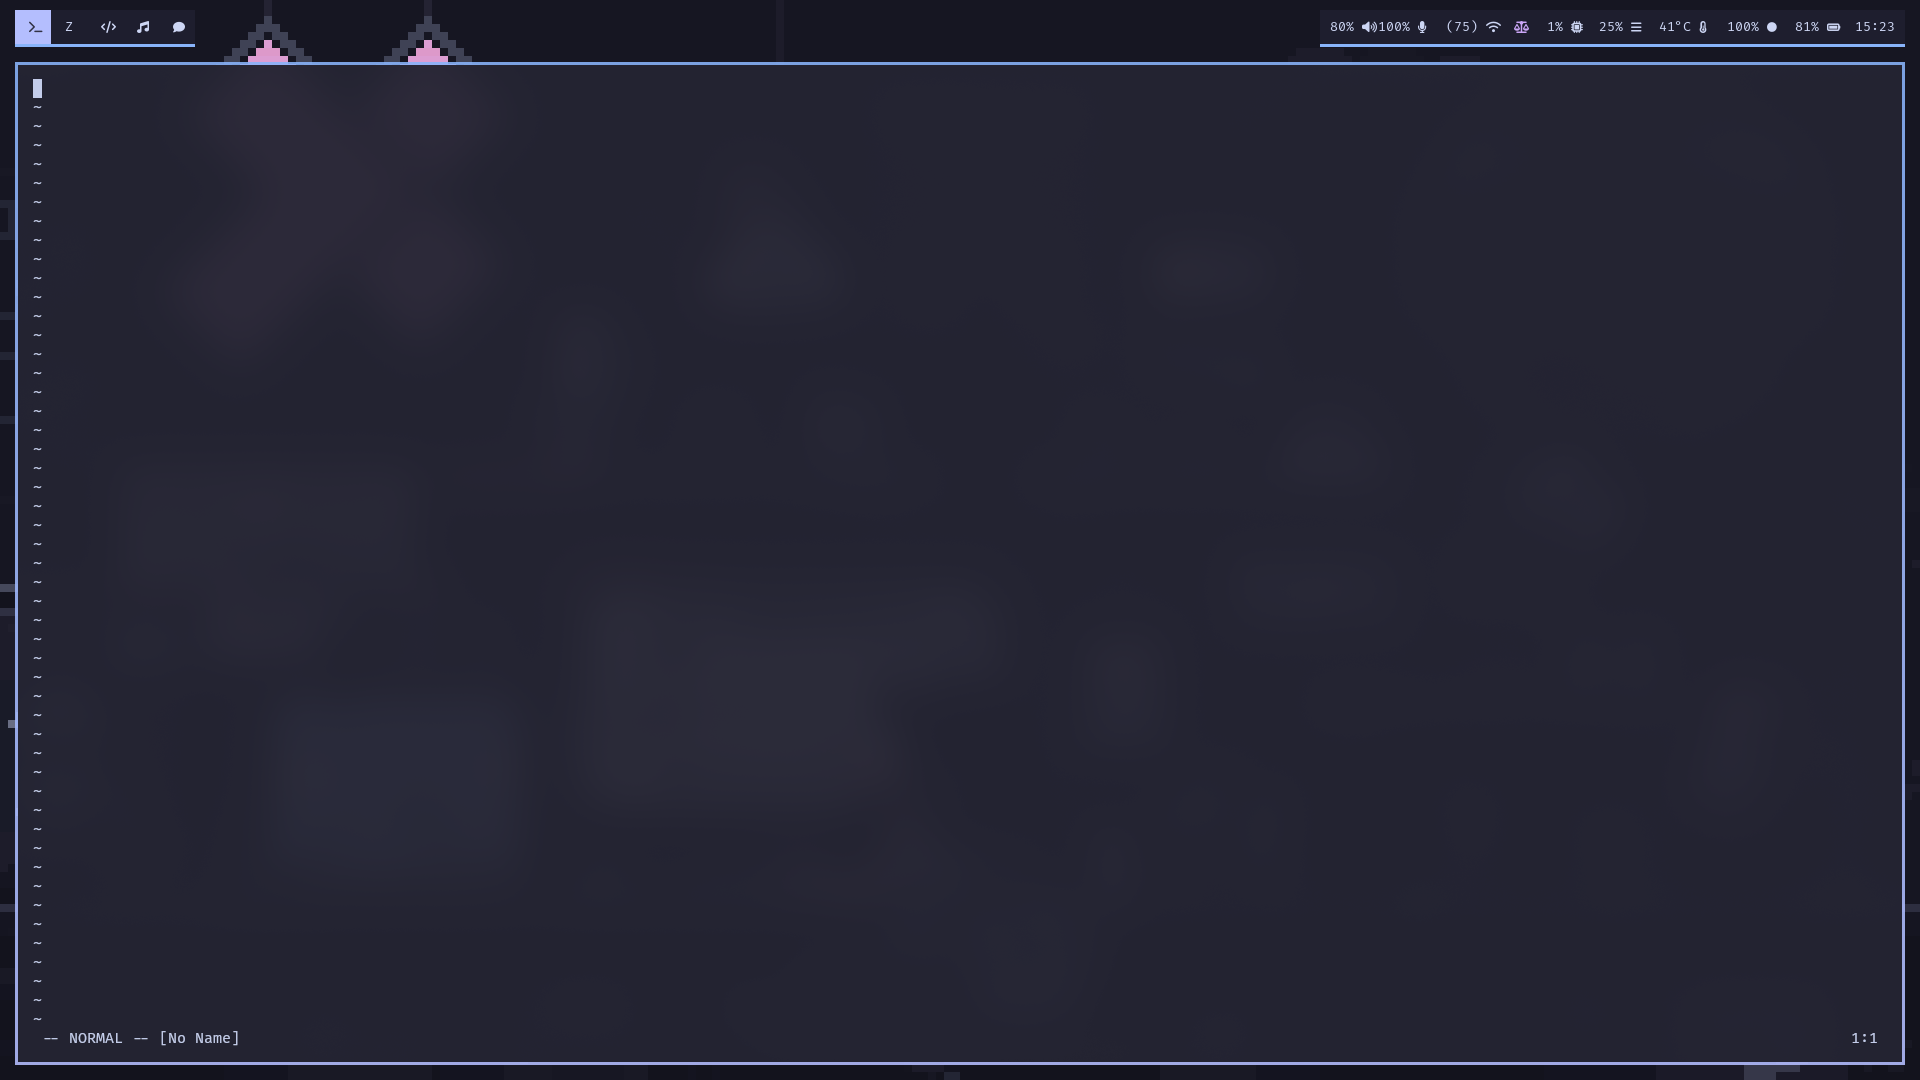
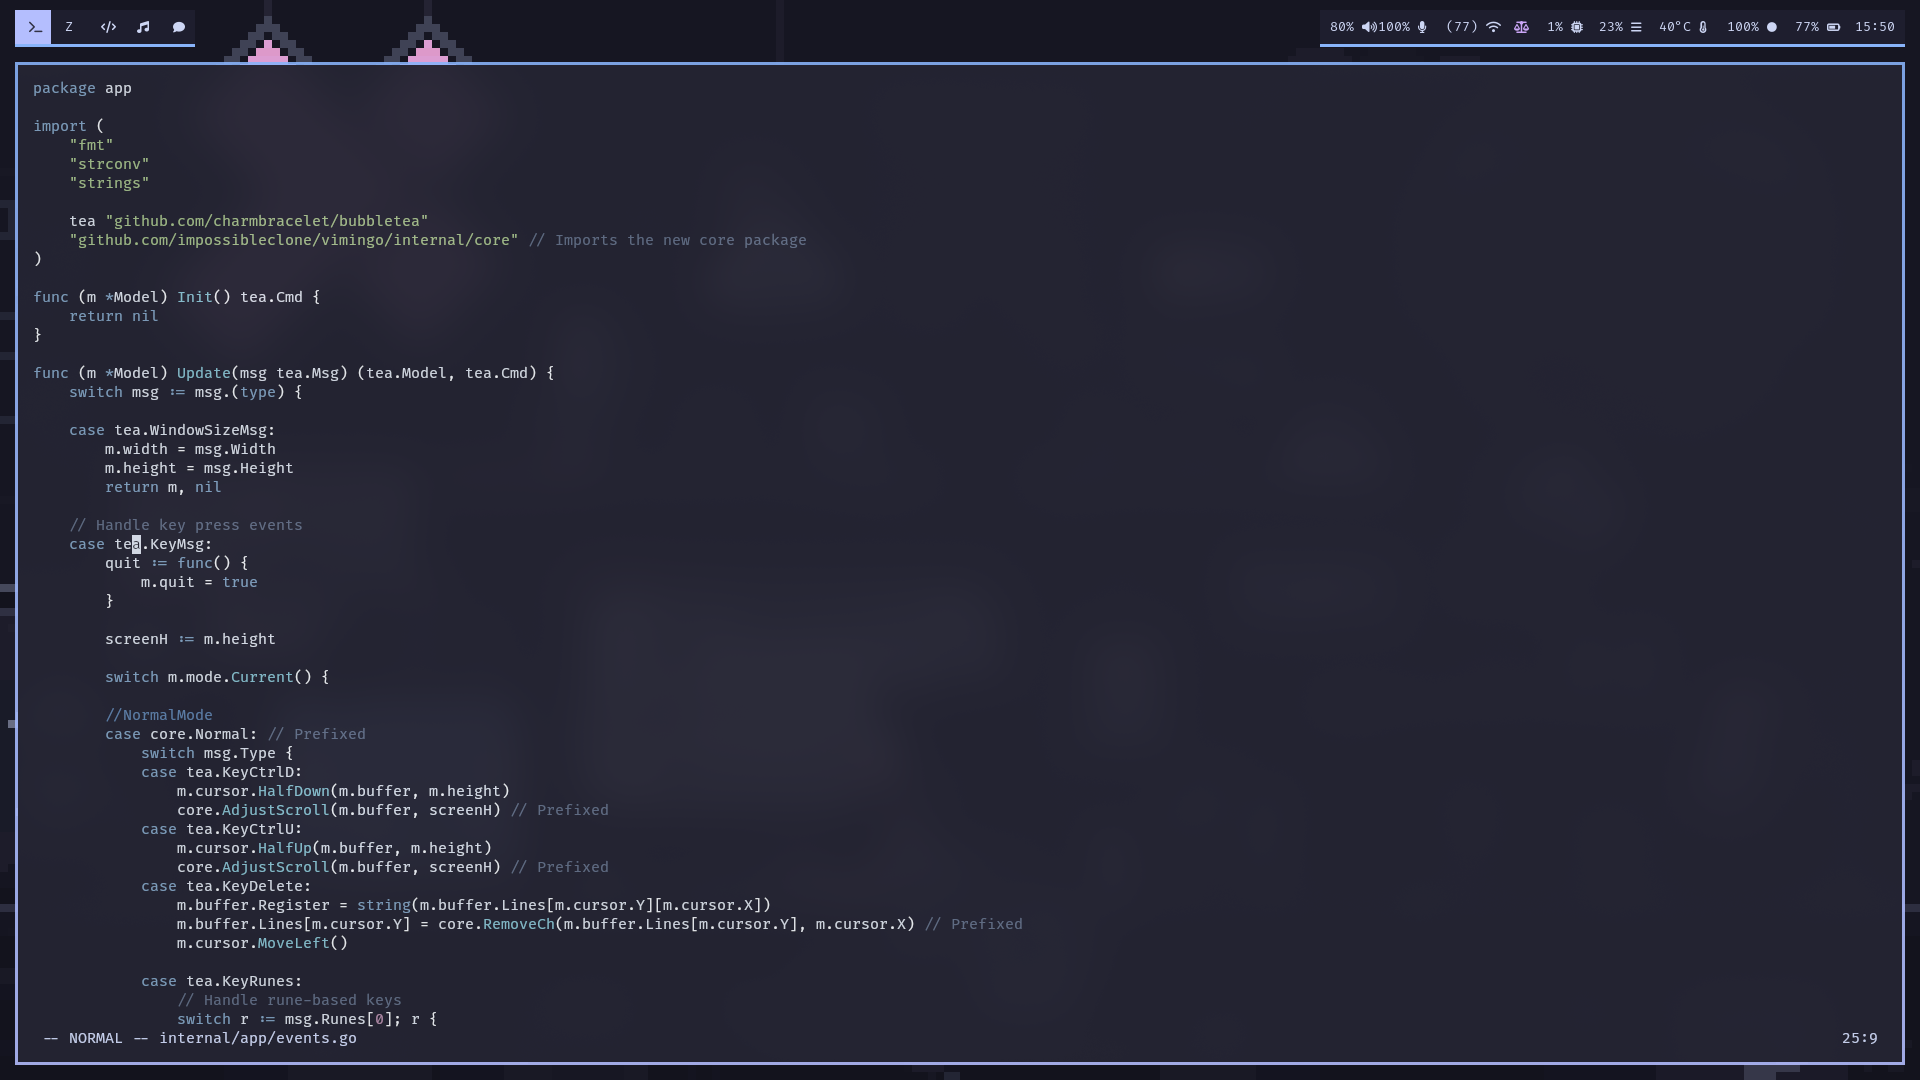
readme updated

diff --git a/internal/app/render.go b/internal/app/render.go
@@ -1,117 +1,176 @@
 package app
 
 import (
-	"fmt"
-	"strings"
+    "fmt"
+    "strings"
 
-	"github.com/impossibleclone/vimingo/internal/core" // Imports the new core package
+    "github.com/impossibleclone/vimingo/internal/core"
+    "github.com/alecthomas/chroma/v2"
+    "github.com/alecthomas/chroma/v2/lexers"
+    "github.com/alecthomas/chroma/v2/styles"
 )
 
 func (m *Model) View() string {
-	var b strings.Builder
+    var b strings.Builder
 
-	screenW, screenH := m.width, m.height
-	if screenW == 0 || screenH == 0 {
-		return "Initializing..."
-	}
+    screenW, screenH := m.width, m.height
+    if screenW == 0 || screenH == 0 {
+        return "Initializing..."
+    }
 
-	const (
-		ansiReverse = "\x1b[7m"
-		ansiReset   = "\x1b[0m"
-	)
+    const (
+        ansiReverse = "\x1b[7m"
+        ansiReset   = "\x1b[0m"
+    )
 
-	// Render buffer content
-	for y := 0; y < screenH-1; y++ {
-		lineIndex := y + m.buffer.ScrollY
-		if lineIndex >= len(m.buffer.Lines) {
-			b.WriteString("~\n")
-			continue
-		}
+    // 1. Setup Syntax Highlighting (Lexer & Style)
+    // We try to match the filename, or fallback to plain text
+    lexer := lexers.Match(m.buffer.Filename)
+    if lexer == nil {
+        lexer = lexers.Fallback
+    }
+    // You can swap "dracula" for "monokai", "nord", etc.
+    style := styles.Get("nord")
+    if style == nil {
+        style = styles.Fallback
+    }
 
-		runes := []rune(m.buffer.Lines[lineIndex])
-		x := 0 // screen column
-		var lineBuilder strings.Builder
+    // Render buffer content
+    for y := 0; y < screenH-1; y++ {
+        lineIndex := y + m.buffer.ScrollY
+        if lineIndex >= len(m.buffer.Lines) {
+            b.WriteString("~\n")
+            continue
+        }
 
-		prevReversed := false
+        rawLine := m.buffer.Lines[lineIndex]
+        
+        // 2. Tokenize the line
+        // This breaks "func main()" into parts: [Keyword "func"], [Text " "], [Name "main"], ...
+        iterator, err := lexer.Tokenise(nil, rawLine)
+        if err != nil {
+            // Fallback if tokenization fails
+            iterator, _ = lexers.Fallback.Tokenise(nil, rawLine)
+        }
 
-		for rn := 0; rn < len(runes); rn++ {
-			r := runes[rn]
+        x := 0 // Screen column (visual x)
+        rnIndex := 0 // Actual rune index in the line string
+        var lineBuilder strings.Builder
+        prevReversed := false
 
-			inSel := m.mode.Current() == core.Visual && core.IsInSelection(m.visualStart, *m.buffer.Cursor, rn, lineIndex) // Prefixed
+        // 3. Iterate Tokens instead of just Runes
+        for _, token := range iterator.Tokens() {
+            
+            // Get the color for this token type (e.g., Keywords are Pink)
+            entry := style.Get(token.Type)
+            tokenColor := getAnsiColor(entry.Colour)
+            
+            // Apply the Syntax Color
+            lineBuilder.WriteString(tokenColor)
 
-			isCursorPos := rn == m.buffer.Cursor.X && lineIndex == m.buffer.Cursor.Y
+            // Iterate the runes INSIDE the token
+            for _, r := range token.Value {
+                
+                // --- Your Existing Cursor/Selection Logic ---
+                inSel := m.mode.Current() == core.Visual && core.IsInSelection(m.visualStart, *m.buffer.Cursor, rnIndex, lineIndex)
+                isCursorPos := rnIndex == m.buffer.Cursor.X && lineIndex == m.buffer.Cursor.Y
+                shouldReverse := inSel || isCursorPos
 
-			shouldReverse := inSel || isCursorPos
+                // Apply Cursor (Reverse Video) ON TOP of syntax color
+                if shouldReverse && !prevReversed {
+                    lineBuilder.WriteString(ansiReverse)
+                }
+                if !shouldReverse && prevReversed {
+                    lineBuilder.WriteString(ansiReset)     // Reset everything
+                    lineBuilder.WriteString(tokenColor)    // Re-apply syntax color!
+                }
+                prevReversed = shouldReverse
 
-			if shouldReverse && !prevReversed {
-				lineBuilder.WriteString(ansiReverse)
-			}
-			if !shouldReverse && prevReversed {
-				lineBuilder.WriteString(ansiReset)
-			}
-			prevReversed = shouldReverse // Update state for next iteration
+                // Handle Tabs
+                if r == '\t' {
+                    spaces := 4 - (x % 4)
+                    for t := 0; t < spaces; t++ {
+                        lineBuilder.WriteRune(' ')
+                        x++
+                    }
+                } else {
+                    lineBuilder.WriteRune(r)
+                    x++
+                }
+                
+                rnIndex++ // Increment the global rune counter
+            }
+        }
 
-			if r == '\t' {
-				spaces := 4 - (x % 4)
-				for t := 0; t < spaces; t++ {
-					lineBuilder.WriteRune(' ')
-					x++
-				}
-			} else {
-				lineBuilder.WriteRune(r)
-				x++
-			}
-		}
+        // Handle the "Block Cursor" at the very end of the line (e.g. creating new text)
+        // We check rnIndex here because that equals len(runes) after the loop
+        if lineIndex == m.buffer.Cursor.Y && m.buffer.Cursor.X == rnIndex {
+             if !prevReversed {
+                lineBuilder.WriteString(ansiReverse)
+            }
+            lineBuilder.WriteRune(' ') 
+            lineBuilder.WriteString(ansiReset)
+            prevReversed = false
+        }
 
-		if lineIndex == m.buffer.Cursor.Y && m.buffer.Cursor.X == len(runes) {
-			if !prevReversed {
-				lineBuilder.WriteString(ansiReverse) // Turn on reverse if not already on
-			}
-			lineBuilder.WriteRune(' ')           // Draw the "block" cursor
-			lineBuilder.WriteString(ansiReset)   // Immediately reset
-			prevReversed = false                 // We are now reset
-		}
+        // Clean up any remaining styles
+        if prevReversed {
+            lineBuilder.WriteString(ansiReset)
+        } else {
+            // Ensure we reset syntax colors at the end of the line
+            lineBuilder.WriteString(ansiReset)
+        }
 
-		if prevReversed {
-			lineBuilder.WriteString(ansiReset)
-		}
+        b.WriteString(lineBuilder.String())
+        b.WriteString("\n")
+    }
 
-		b.WriteString(lineBuilder.String())
-		b.WriteString("\n")
-	}
+    // --- Status Line (unchanged) ---
+    status := ""
+    if m.mode.Current() == core.Normal {
+        status = " -- NORMAL -- " + m.buffer.Filename
+    } else if m.mode.Current() == core.Insert {
+        status = " -- INSERT -- " + m.buffer.Filename
+    } else if m.mode.Current() == core.Visual {
+        status = " -- VISUAL -- " + m.buffer.Filename
+    } else if m.mode.Current() == core.Command {
+        status = ":" + string(m.buffer.Command)
+    }
+    if m.buffer.StatusMsg != "" && m.mode.Current() != core.Command {
+        status += " | " + m.buffer.StatusMsg
+    }
 
-	status := ""
-	if m.mode.Current() == core.Normal { // Prefixed
-		status = " -- NORMAL -- " + m.buffer.Filename
-	} else if m.mode.Current() == core.Insert { // Prefixed
-		status = " -- INSERT -- " + m.buffer.Filename
-	} else if m.mode.Current() == core.Command { // Prefixed
-		status = ":" + string(m.buffer.Command)
-	}
-	if m.buffer.StatusMsg != "" && m.mode.Current() != core.Command { // Prefixed
-		status += " | " + m.buffer.StatusMsg
-	}
+    coords := fmt.Sprintf("%d:%d ", m.buffer.Cursor.Y+1, m.buffer.Cursor.X+1)
+    operators := string(m.buffer.KeyReg)
 
-	coords := fmt.Sprintf("%d:%d ", m.buffer.Cursor.Y+1, m.buffer.Cursor.X+1)
-	operators := string(m.buffer.KeyReg)
+    statusLine := make([]rune, screenW)
+    for i := range statusLine {
+        statusLine[i] = ' '
+    }
 
-	statusLine := make([]rune, screenW)
-	for i := range statusLine {
-		statusLine[i] = ' '
-	}
+    copy(statusLine, []rune(status))
 
-	copy(statusLine, []rune(status))
+    coordStart := screenW - len(coords)
+    // Safety check to prevent panic on very small screens
+    if coordStart > 0 && coordStart < len(statusLine) {
+        copy(statusLine[coordStart:], []rune(coords))
+    }
 
-	coordStart := screenW - len(coords)
-	copy(statusLine[coordStart:], []rune(coords))
+    opStart := coordStart - len(operators)
+    if opStart > 0 && opStart < len(statusLine) {
+         copy(statusLine[opStart:], []rune(operators))
+    }
 
-	opStart := coordStart - len(operators)
-	if opStart < 0 {
-		opStart = 0
-	}
-	copy(statusLine[opStart:], []rune(operators))
+    b.WriteString(string(statusLine))
 
-	b.WriteString(string(statusLine))
+    return b.String()
+}
 
-	return b.String()
+// --- Helper to convert Chroma Color to ANSI TrueColor string ---
+func getAnsiColor(c chroma.Colour) string {
+    r := int(c.Red())
+    g := int(c.Green())
+    b := int(c.Blue())
+    // returns "\x1b[38;2;R;G;Bm"
+    return fmt.Sprintf("\x1b[38;2;%d;%d;%dm", r, g, b)
 }

diff --git a/internal/app/events.go b/internal/app/events.go
@@ -21,7 +21,7 @@ func (m *Model) Update(msg tea.Msg) (tea.Model, tea.Cmd) {
 		m.height = msg.Height
 		return m, nil
 
-	// Handle key press events
+	// Handle key press events by the user.
 	case tea.KeyMsg:
 		quit := func() {
 			m.quit = true
